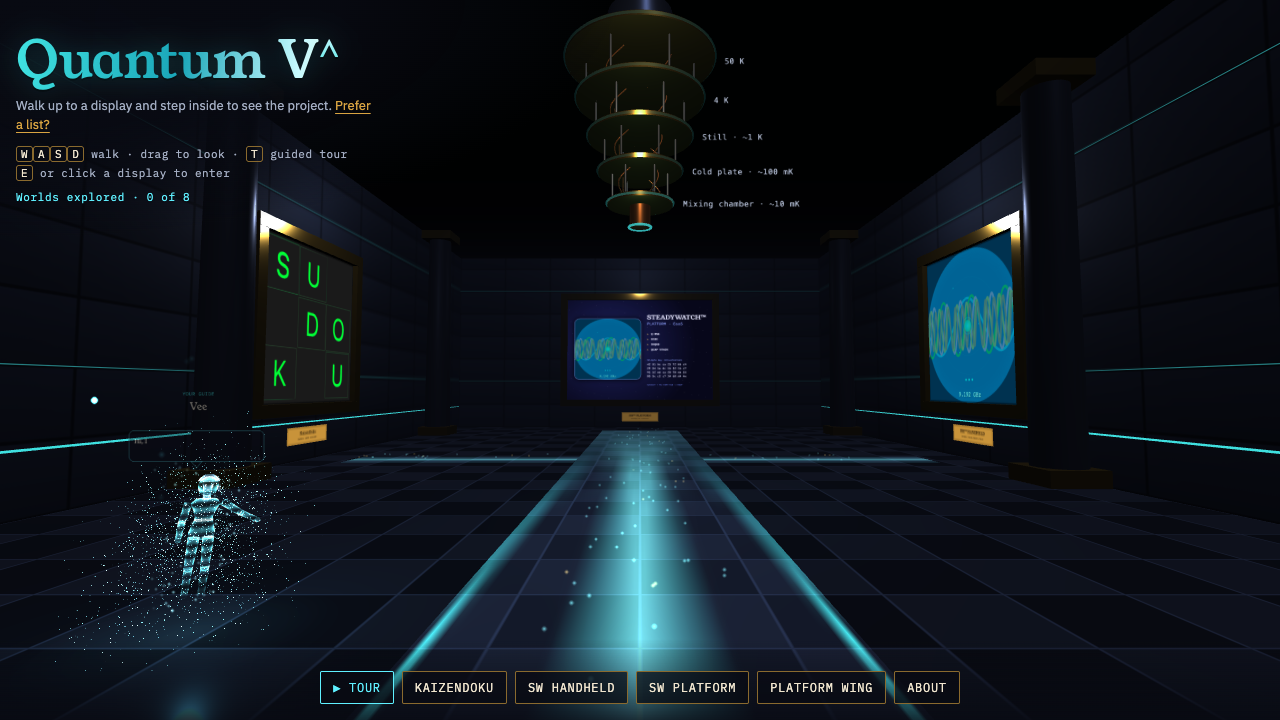
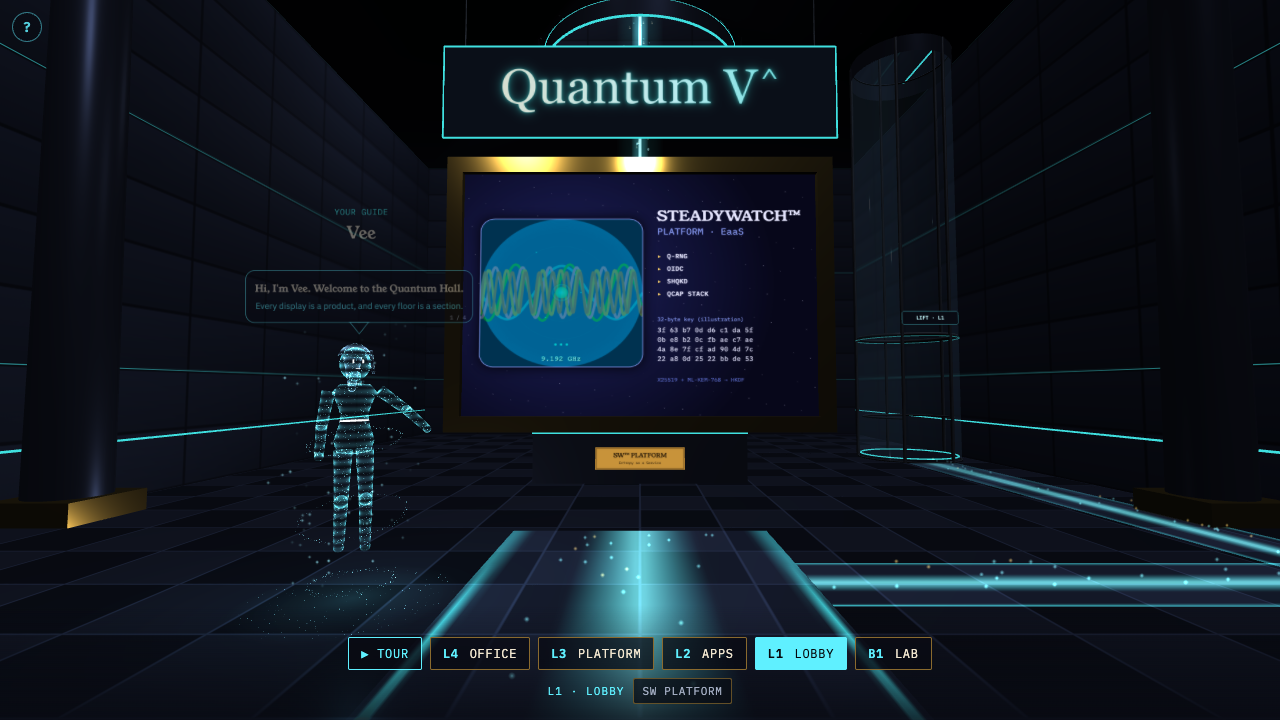
Retake the README preview in the new lobby; tidy Vee's returning-visitor welcome
The welcome back line now names the next world instead of listing them all
(the list overflowed her bubble), and she only points at things on your floor.

diff --git a/index.html b/index.html
@@ -2107,7 +2107,7 @@ function buildMascot() {
   if (visit.returning) {   // a returning visitor gets a shorter welcome
     const u = unseenWorlds();
     vee.tour = [
-      ['Welcome back to the Quantum Hall.', u.length ? `You haven't seen ${listNames(u)} yet.` : "You've explored every world. Thanks for coming back.", firstTarget ? firstTarget.center : null],
+      ['Welcome back to the Quantum Hall.', u.length > 2 ? `${u.length} worlds left to explore, starting with ${WORLD_NAMES[u[0]]}.` : u.length ? `You haven't seen ${listNames(u)} yet.` : "You've explored every world. Thanks for coming back.", firstTarget && firstTarget.floor === FI.l1 ? firstTarget.center : null],   // point only at what's on this floor
       vee.tour[vee.tour.length - 1]];
   }
   vee.tourK = 0; vee.tourT = 0; vee.greeted = new Set();

diff --git a/README.md b/README.md
@@ -1,5 +1,5 @@
 <p align="center">
-  <a href="https://infin-8.github.io/Projects/"><img src="assets/gallery-preview.png" width="800" alt="The Quantum V^ gallery: a dark hall under a gold cryostat chandelier, with the KaizenDoku, STEADYWATCH Handheld and STEADYWATCH Platform displays, a glowing light path down the middle and Vee, the holographic guide"></a>
+  <a href="https://infin-8.github.io/Projects/"><img src="assets/gallery-preview.png" width="800" alt="The Quantum Hall lobby: the Quantum V^ banner hangs over the freestanding STEADYWATCH™ PLATFORM display, with the glass lift to the right, a glowing light path down the middle and Vee, the holographic guide"></a>
 </p>
 
 <p align="center">
